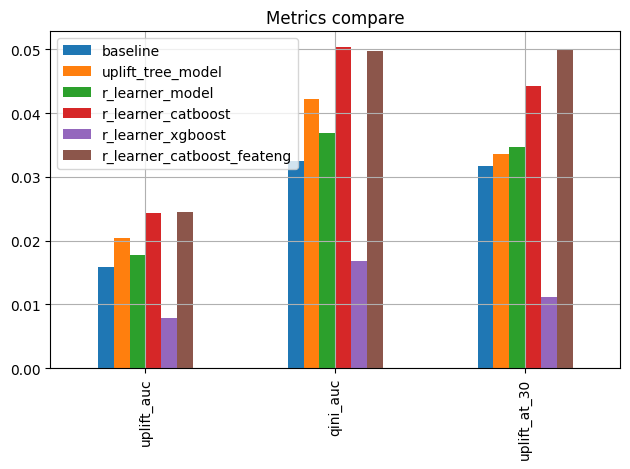
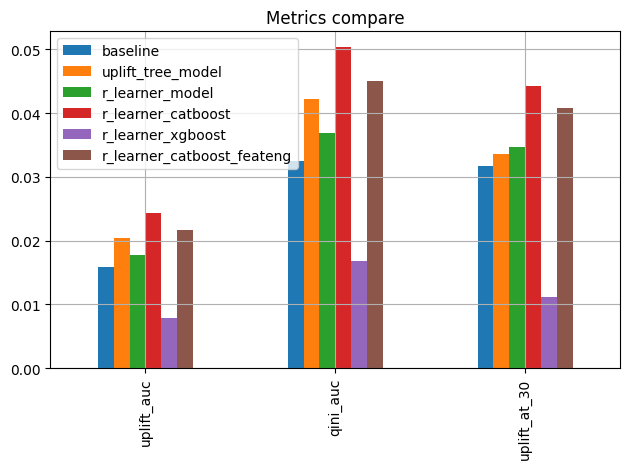
Часть 2 - Этап 1 - Оптимизация гиперпараметров - переделан и оформлен раздел Генерации признаков - получены новые признаки, но без улучшения модели -  залогировано в MLflow - пока оставим их в работе для проверки гиперпараметров

Changed region(s): [[0.8746, 0.0896, 0.9349, 0.2388], [0.573, 0.0896, 0.6333, 0.1791], [0.2714, 0.4478, 0.3317, 0.5075]]

diff --git a/mlflow_utils.py b/mlflow_utils.py
@@ -2,6 +2,17 @@ import mlflow
 from dotenv import load_dotenv
 import os, shutil
 
+class PyfuncModelWrapper(mlflow.pyfunc.PythonModel):
+    '''
+    Обертка для causalml моделей, чтобы залогировать в MLflow как pyfunc, так как в mlflow нет штатной поддержки causalml-моделей
+    '''
+
+    def load_context(self, context):
+        self.model = mlflow.sklearn.load_model(context.artifacts["model-dump"])
+
+    def predict(self, context, model_input):
+        return self.model.predict(model_input)
+
 def init_mlflow(clean_model_dump_directory: str | None = None):
     '''
     connect to mlflow server with url and env vars - http://{TRACKING_SERVER_HOST}:{TRACKING_SERVER_PORT}
@@ -32,3 +43,19 @@ def init_mlflow(clean_model_dump_directory: str | None = None):
             shutil.rmtree(local_model_path)
     
     return mlflow_client
+
+
+
+def dump_model(model, local_dir):
+    '''
+    dump non-sklearn model (e.g. casualml) as universal mlflow.sklearn pyfunc model,
+    so that it can be then logged to mlflow as pyfunc-model
+
+    return 
+        mlflow_model_artifacts - artifacts for dumped model to be passed to mlflow pyfunc.log_model()
+    '''
+    local_model_path = f'{local_dir}/model-dump'
+    mlflow.sklearn.save_model(sk_model=model, path=local_model_path)
+    
+    mlflow_model_artifacts = {"model-dump": local_model_path}
+    return mlflow_model_artifacts